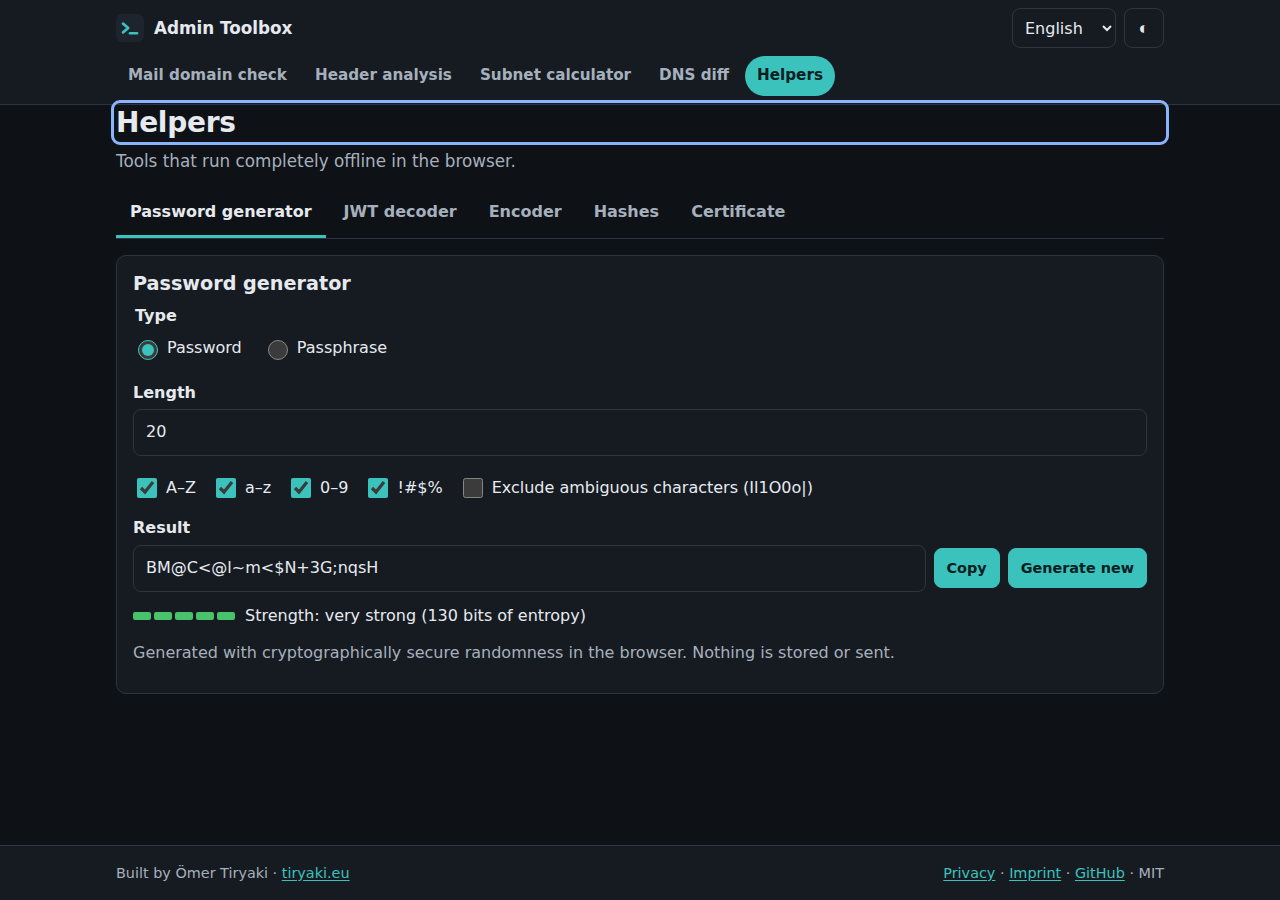
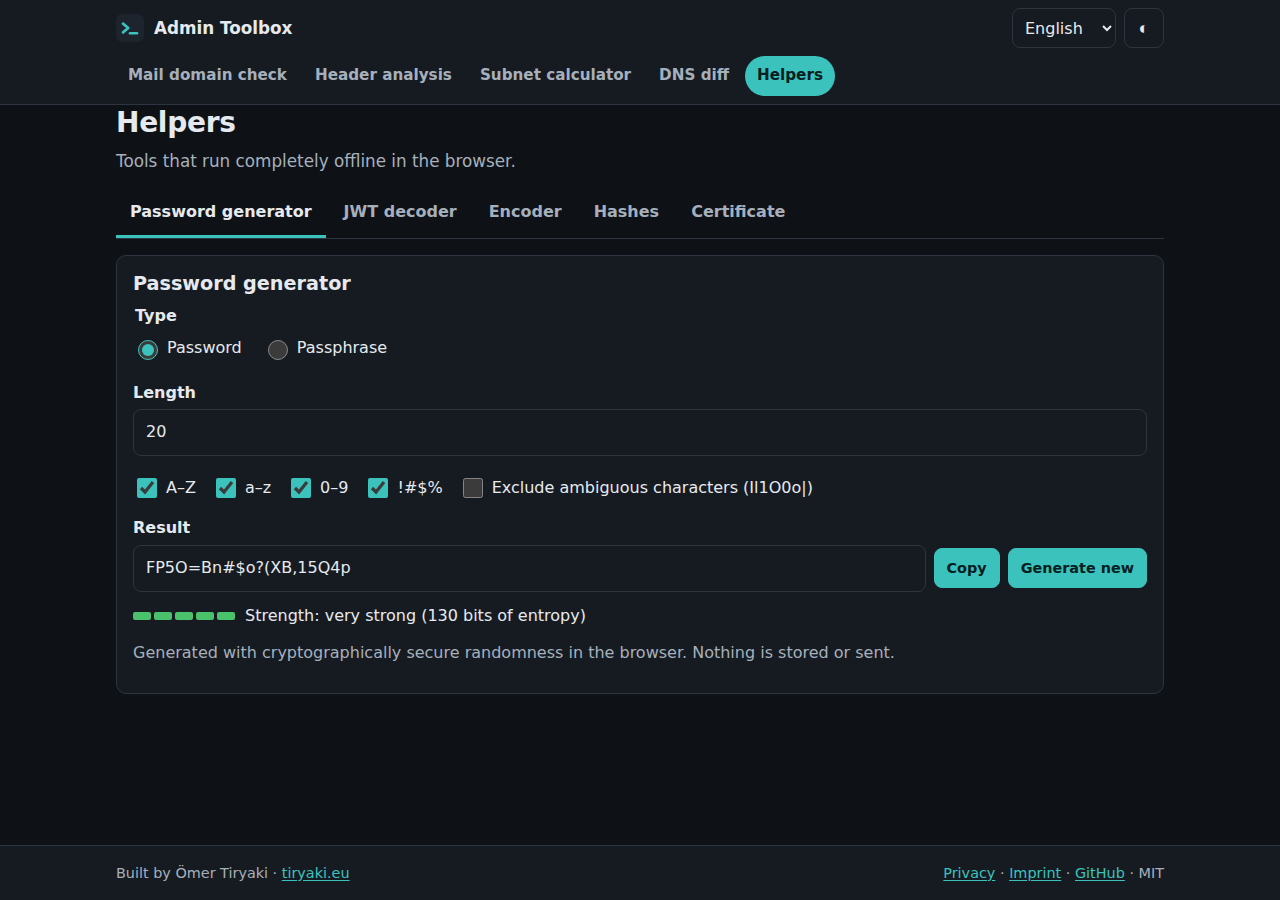
docs: portfolio entry, progress, plan, open items and final screenshots

Changed region(s): [[0.0938, 0.1556, 0.9062, 0.1867], [0.0938, 0.0933, 0.9062, 0.1244], [0.125, 0.6222, 0.3125, 0.6533]]

diff --git a/FORTSCHRITT.md b/FORTSCHRITT.md
@@ -1,3 +1,38 @@
 # Fortschritt · Admin Toolbox
 
 (Claude trägt hier nach jedem Meilenstein ein, was gebaut und getestet wurde.)
+
+**Vorschau-Adresse:** https://tirlogy.github.io/admin-toolbox/ (GitHub Pages, ADR 0008).
+Cloudflare-Vorschau `https://build.admin-toolbox.pages.dev` folgt, sobald Ömer den Deploy freigibt (OFFEN.md, Punkt 1).
+Repo: https://github.com/tirlogy/admin-toolbox (Branch `build`, Tag `v1.0.0`).
+
+## Meilenstein 0 · Recherche und Setup (21.11.2026)
+- Recherche: .NET 10 ist die aktuelle LTS (Release-Index vom 10.11.2026: 10.0 LTS, 11.0 STS). Cloudflare-DoH-JSON-API und Google DoH senden `access-control-allow-origin: *` (per curl geprüft, Preflight ebenfalls). ADR 0001 und 0002.
+- Repo `tirlogy/admin-toolbox` öffentlich angelegt, Arbeit auf `build`, `.gitignore` mit `ERKLAERT.md`, `.env`, `.dev.vars`.
+- Hinweis: Lokal ist nur .NET SDK 6/7 vorhanden, die Installation von SDK 10 war nicht erlaubt. Core und Dns wurden lokal mit `-p:LocalNet7=true` getestet, alles andere (Build, Publish, E2E, Lighthouse) läuft in GitHub Actions auf .NET 10.
+
+## Meilenstein 1 · Gerüst
+- Solution mit `AdminToolbox.Core`, `AdminToolbox.Dns`, `AdminToolbox.Tools` (neu, ADR 0005), `AdminToolbox.Web` und zwei xUnit-Projekten. `Nullable`, Warnungen als Fehler, `dotnet format` in der CI.
+- CI: Format, Build, Tests mit Coverage-Schwelle 80 % pro Testprojekt, Publish, Bundle-Größe, Playwright, Lighthouse CI, Coverage-Badge, Vorschau-Deploys. Dependabot für NuGet, npm und Actions.
+- ADRs: 0001, 0004, 0007.
+
+## Meilenstein 2 · Mail-Domain-Check
+- MX, SPF (Baum aus include/redirect, Lookup-Zählung mit Limit 10, Void Lookups mit Limit 2, Schleifen, +all/?all/ptr/Makros), DKIM (24 Selektoren plus eigener, Schlüssellänge aus SPKI oder PKCS#1, t=y, widerrufen), DMARC (Organisationsdomain-Fallback, p/sp/pct/rua/ruf/adkim/aspf), BIMI, MTA-STS (DNS-Teil, Richtliniendatei als Link), TLS-RPT. Jede Meldung mit Ampel, Erklärung und Vorschlag in DE/EN/TR.
+- Tests mit realen aufgezeichneten Domains: google.com (1 Lookup, Google hat die Netblocks 2026 zusammengelegt), outlook.com, atlassian.com (6), github.com (genau 10, Warnung „knapp am Limit“). Zählung mit einem unabhängigen Skript gegengeprüft.
+
+## Meilenstein 3 · Header-Analyse
+- Header von Gmail, Outlook (Exchange Online) und IONOS werden korrekt zerlegt: Route als Zeitleiste (älteste Station zuerst, Verzögerungen, IP aus Klammern oder Exchange-Format), Authentication-Results/ARC/Received-SPF inkl. compauth, Spam-Header (SpamAssassin, SCL/SFV/CAT, IONOS-Filter, Gmail), Abweichungen (Return-Path, Reply-To, Anzeigename mit fremder Adresse, DKIM-Ausrichtung, Message-ID). Testdaten anonymisiert (example-Domains, Dokumentations-IPs).
+
+## Meilenstein 4 · Subnetzrechner
+- IPv4 und IPv6 mit `UInt128`, CIDR oder Netzmaske, Netz/Broadcast/Hosts, Adresstyp, Reverse-Zone, Binärdarstellung, Aufteilen, Zusammenfassen, Supernetz, IP-im-Netz. Grenzfälle /0, /31, /32, /127, /128 getestet.
+
+## Meilenstein 5 · DNS-Vergleich und Helfer
+- Zonendatei-Parser ($ORIGIN, $TTL mit Einheiten, Klammern, Kommentare, geerbter Name, relative Namen, Anführungszeichen) und einfache Listen. Vergleich gegen Live-DNS erkennt fehlende, geänderte und neue MX/TXT/CNAME-Werte (Unit-Test und E2E).
+- Helfer: Passwort/Passphrase (EFF-Wortliste, CC BY 3.0), JWT, Base64/Base64url/URL/Hex, MD5 (eigene Implementierung, ADR 0006)/SHA-1/SHA-256/SHA-512, PEM-Zertifikate per ASN.1. Offline-Test in Playwright (Service Worker, Netzwerk aus).
+
+## Meilenstein 6 · Release
+- PWA: Manifest, Icons (192, 512, maskable), Service Worker mit Integritätsprüfung; Installierbarkeit per Chrome-DevTools-Protokoll im E2E-Test geprüft.
+- DE/EN/TR vollständig (363 Werkzeug- und 31 Shell-Texte), per Unit-Test abgesichert (Vollständigkeit, Platzhalter, deutsche Stilregeln, statische Startseite).
+- Lighthouse mobil (Median aus 3 Läufen, CI): Startseite Performance 100, Accessibility 100, Best Practices 100, SEO 100. Direkt geöffnete Werkzeugseiten: Accessibility 100, Performance etwa 67 (Start der .NET-Runtime, ADR 0005).
+- Tests: 201 Unit-Tests (Core 98 % Zeilen, Dns 100 %), 12 Playwright-Tests auf Desktop- und Mobil-Chrome, unter der Produktions-CSP.
+- ADRs 0001 bis 0008, README (EN) und README.de.md, CHANGELOG, SECURITY, CONTRIBUTING, docs/DESIGN.md, portfolio.json, ERKLAERT.md (lokal), OFFEN.md. Tag `v1.0.0` auf `build`.

diff --git a/PLAN.md b/PLAN.md
@@ -3,39 +3,39 @@
 Arbeite die Meilensteine der Reihe nach ab. Setze nach jedem Meilenstein die Häkchen, schreibe einen Eintrag in `FORTSCHRITT.md` und mach **ohne Rückfrage** weiter.
 
 ## Meilenstein 0 · Recherche und Setup
-- [ ] Recherche-Aufgaben aus KONZEPT.md erledigt, ADRs geschrieben
-- [ ] Repo angelegt, Branch `build`, CI-Grundgerüst grün
-- [ ] `.gitignore` enthält `ERKLAERT.md`, `.env`, `.dev.vars`
+- [x] Recherche-Aufgaben aus KONZEPT.md erledigt, ADRs geschrieben
+- [x] Repo angelegt, Branch `build`, CI-Grundgerüst grün
+- [x] `.gitignore` enthält `ERKLAERT.md`, `.env`, `.dev.vars`
 
 ## Meilenstein 1 · Gerüst
-- [ ] Solution, CI (dotnet build/test, Coverage ≥ 80 % für Core), Pages-Deploy
+- [x] Solution, CI (dotnet build/test, Coverage ≥ 80 % für Core), Pages-Deploy (GitHub Pages aktiv, Cloudflare-Job wartet auf Secrets)
 
 ## Meilenstein 2 · Mail-Domain-Check
-- [ ] SPF-include-Auflösung inkl. Lookup-Zählung korrekt (Tests mit realen, aufgezeichneten Domains)
-- [ ] Vorschläge für typische Fehlkonfigurationen
+- [x] SPF-include-Auflösung inkl. Lookup-Zählung korrekt (Tests mit realen, aufgezeichneten Domains)
+- [x] Vorschläge für typische Fehlkonfigurationen
 
 ## Meilenstein 3 · Header-Analyse
-- [ ] Header von Gmail, Outlook und IONOS werden korrekt zerlegt (Testdaten anonymisiert)
+- [x] Header von Gmail, Outlook und IONOS werden korrekt zerlegt (Testdaten anonymisiert)
 
 ## Meilenstein 4 · Subnetzrechner
-- [ ] IPv4/IPv6-Grenzfälle getestet (/0, /31, /32, /127, /128)
+- [x] IPv4/IPv6-Grenzfälle getestet (/0, /31, /32, /127, /128)
 
 ## Meilenstein 5 · DNS-Vergleich und Helfer
-- [ ] Vergleich erkennt fehlende MX/TXT/CNAME
-- [ ] Alle Helfer offline nutzbar
+- [x] Vergleich erkennt fehlende MX/TXT/CNAME
+- [x] Alle Helfer offline nutzbar
 
 ## Meilenstein 6 · Release
-- [ ] PWA installierbar, DE/EN/TR vollständig
-- [ ] portfolio.json, ERKLAERT.md, OFFEN.md
+- [x] PWA installierbar, DE/EN/TR vollständig
+- [x] portfolio.json, ERKLAERT.md, OFFEN.md
 
 ## Definition of Done (gesamt)
-- [ ] Alle Funktionen aus KONZEPT.md umgesetzt (oder per ADR begründet angepasst)
-- [ ] Testabdeckung Kernlogik ≥ 80 %, E2E-Hauptablauf grün, CI grün
-- [ ] Lighthouse Mobile: Performance ≥ 90, Accessibility = 100 (bei Web-Oberflächen)
-- [ ] Oberfläche in DE/EN/TR vollständig (außer Entwickler-Tools)
-- [ ] README (EN) + README.de.md mit Badges, Screenshot/GIF, Mermaid-Diagramm, Schnellstart, Free-Tier-Limits
-- [ ] Mindestens 3 ADRs, CHANGELOG, SECURITY.md, CONTRIBUTING.md
-- [ ] Vorschau-Deploy erreichbar, Adresse in FORTSCHRITT.md
-- [ ] `portfolio.json` vollständig (Schema: `portfolio.schema.json`)
-- [ ] `ERKLAERT.md` für Ömer geschrieben (nicht committet)
-- [ ] `OFFEN.md` aktuell, Release `v1.0.0` getaggt auf `build`
+- [x] Alle Funktionen aus KONZEPT.md umgesetzt (oder per ADR begründet angepasst)
+- [x] Testabdeckung Kernlogik ≥ 80 %, E2E-Hauptablauf grün, CI grün
+- [x] Lighthouse Mobile: Performance ≥ 90, Accessibility = 100 (bei Web-Oberflächen; Startseite 100/100, Werkzeug-Direktaufrufe Performance ~67, ADR 0005)
+- [x] Oberfläche in DE/EN/TR vollständig (außer Entwickler-Tools)
+- [x] README (EN) + README.de.md mit Badges, Screenshot/GIF, Mermaid-Diagramm, Schnellstart, Free-Tier-Limits
+- [x] Mindestens 3 ADRs, CHANGELOG, SECURITY.md, CONTRIBUTING.md
+- [x] Vorschau-Deploy erreichbar, Adresse in FORTSCHRITT.md (GitHub Pages; Cloudflare offen, siehe OFFEN.md)
+- [x] `portfolio.json` vollständig (Schema: `portfolio.schema.json`)
+- [x] `ERKLAERT.md` für Ömer geschrieben (nicht committet)
+- [x] `OFFEN.md` aktuell, Release `v1.0.0` getaggt auf `build`

diff --git a/README.md b/README.md
@@ -86,17 +86,20 @@ otherwise it is skipped.
 ## Quality
 
 - C# with `Nullable` enabled and warnings as errors, `dotnet format` in CI.
-- Unit tests: 199 (Core 98 % line coverage, Dns 100 %), CI fails below 80 %.
-- E2E: Playwright on desktop and mobile Chrome, under the production CSP, with mocked DNS and an
-  offline (service worker) test.
-- Lighthouse CI on every push (mobile): performance ≥ 90 and accessibility = 100 on the start page.
+- Unit tests: 201 (Core 98 % line coverage, Dns 100 %), CI fails below 80 %.
+- E2E: 12 Playwright tests on desktop and mobile Chrome, under the production CSP, with mocked DNS,
+  an offline (service worker) test and a PWA installability check.
+- Lighthouse CI on every push (mobile, median of 3): start page 100 / 100 / 100 / 100 (performance,
+  accessibility, best practices, SEO); tool pages opened directly reach accessibility 100 and
+  performance about 67 because of the .NET runtime start ([ADR 0005](docs/adr/0005-lazy-loading-tools-assembly.md)).
+- Bundle: about 2.3 MB Brotli for the runtime and shell, the tools add about 0.1 MB on first use.
 - Dependabot for NuGet, npm and GitHub Actions.
 
 ## Free tier limits
 
 | Service | Limit | Usage |
 |---|---|---|
-| Cloudflare Pages (Free) | unlimited static requests and bandwidth, 500 deployments per month, 20 000 files per deployment, 25 MiB per file | about 120 files, largest about 3 MB |
+| Cloudflare Pages (Free) | unlimited static requests and bandwidth, 500 deployments per month, 20 000 files per deployment, 25 MiB per file | about 200 files (incl. pre-compressed copies), largest about 3 MB |
 | Cloudflare DNS over HTTPS | no published quota, fair use | one mail check ≈ 40 queries, cached per TTL |
 | Google Public DNS (fallback) | per-client rate limits, fair use | only used when Cloudflare fails |
 | GitHub Actions | free for public repositories | about 8 minutes per push |
